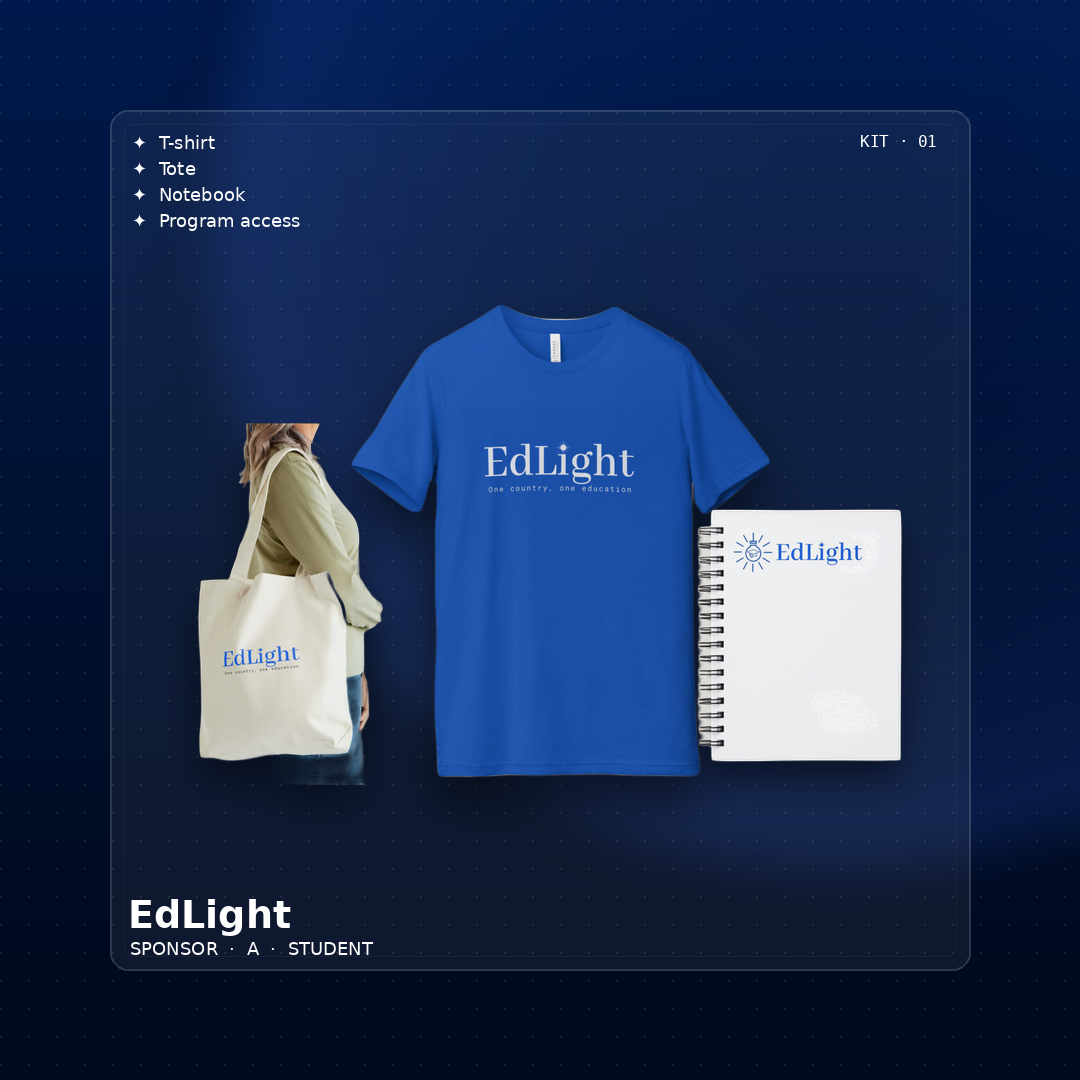
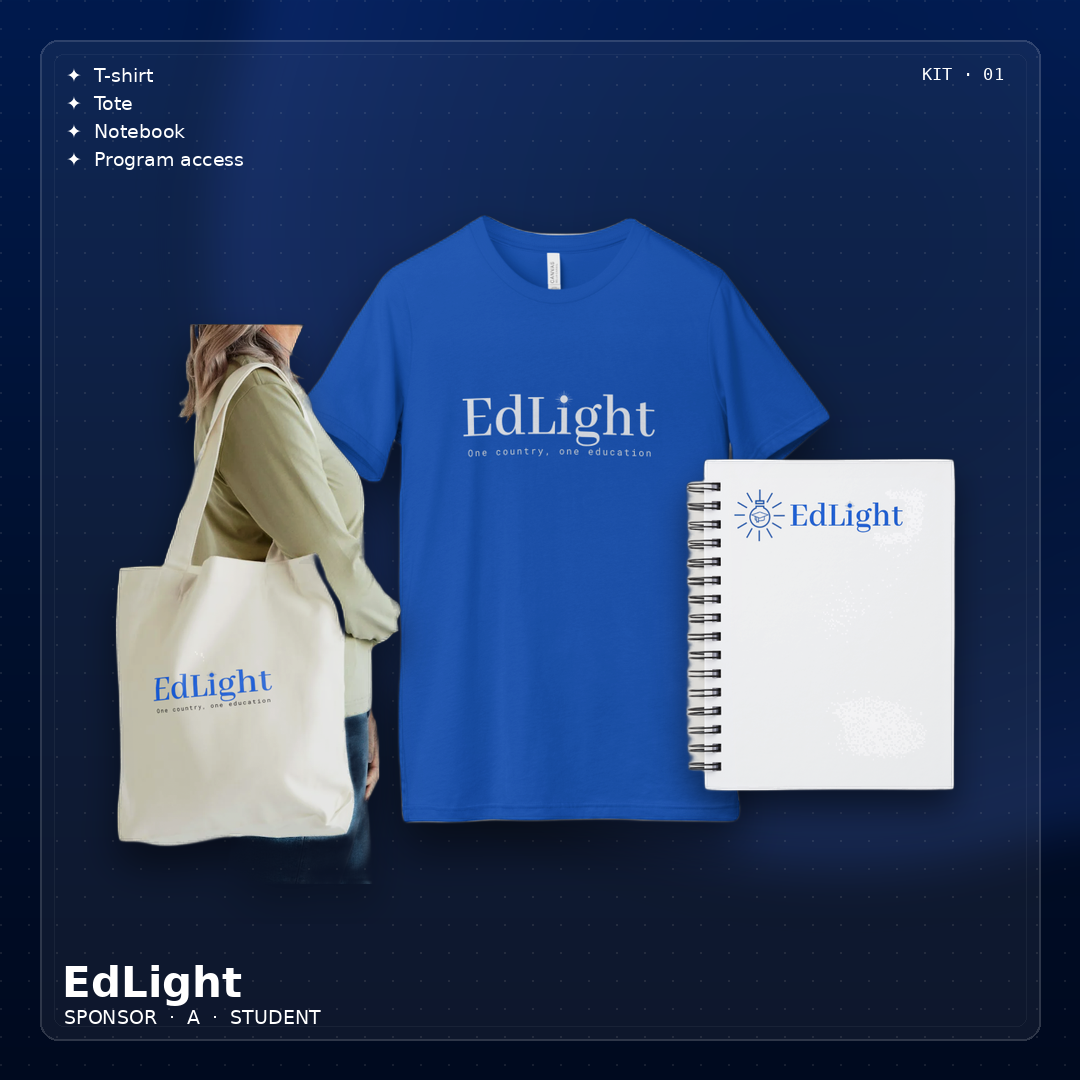
store: sponsor kit price now $50/month + image fills full tile

diff --git a/app/store/page.tsx b/app/store/page.tsx
@@ -66,6 +66,11 @@ export default function StorePage() {
                     <div className="flex items-center justify-between border-t border-[var(--paper-200)] pt-4">
                       <span className="font-display text-[var(--ink-900)] text-2xl font-semibold">
                         ${product.price}
+                        {product.priceSuffix && (
+                          <span className="text-sm font-normal text-[var(--ink-500)]">
+                            {product.priceSuffix}
+                          </span>
+                        )}
                       </span>
                       <span className="eyebrow text-[10px] text-[var(--ink-400)] border border-[var(--paper-200)] px-2.5 py-1">
                         Coming soon

diff --git a/scripts/process-store-images.py b/scripts/process-store-images.py
@@ -100,7 +100,7 @@ for y in range(0, KIT_SIZE, 28):
 kit = Image.alpha_composite(kit, dot_layer)
 
 # Soft card frame in the centre so the products sit on a "tray".
-card_pad = 110
+card_pad = 40
 card = Image.new("RGBA", (KIT_SIZE, KIT_SIZE), (0, 0, 0, 0))
 cdraw = ImageDraw.Draw(card)
 cdraw.rounded_rectangle(
@@ -133,9 +133,9 @@ def fit(img, max_w, max_h):
     return img
 
 # Layout: tote on the left, t-shirt back-centre (largest), notebook front-right.
-tshirt_f   = fit(tshirt,   560, 560)
-tote_f     = fit(tote,     420, 460)
-notebook_f = fit(notebook, 380, 380)
+tshirt_f   = fit(tshirt,   680, 680)
+tote_f     = fit(tote,     520, 560)
+notebook_f = fit(notebook, 460, 460)
 
 # Soft drop shadows for grounding.
 def with_shadow(rgba, offset=(0, 22), blur=18, opacity=110):
